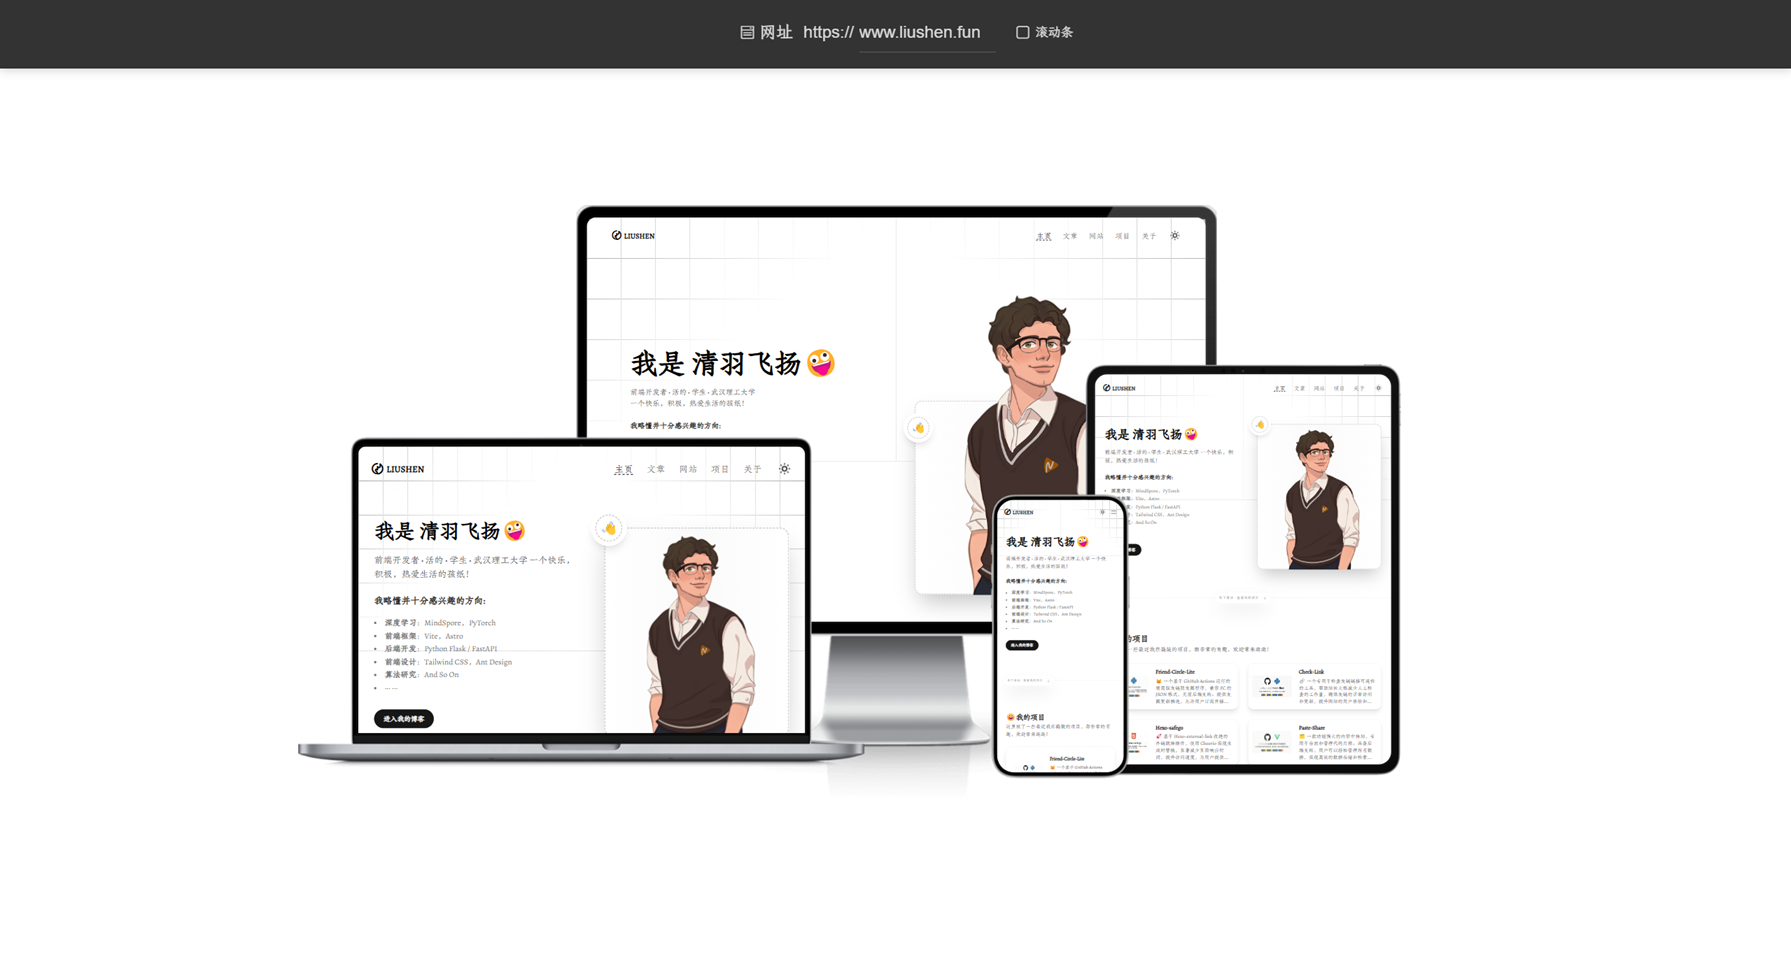
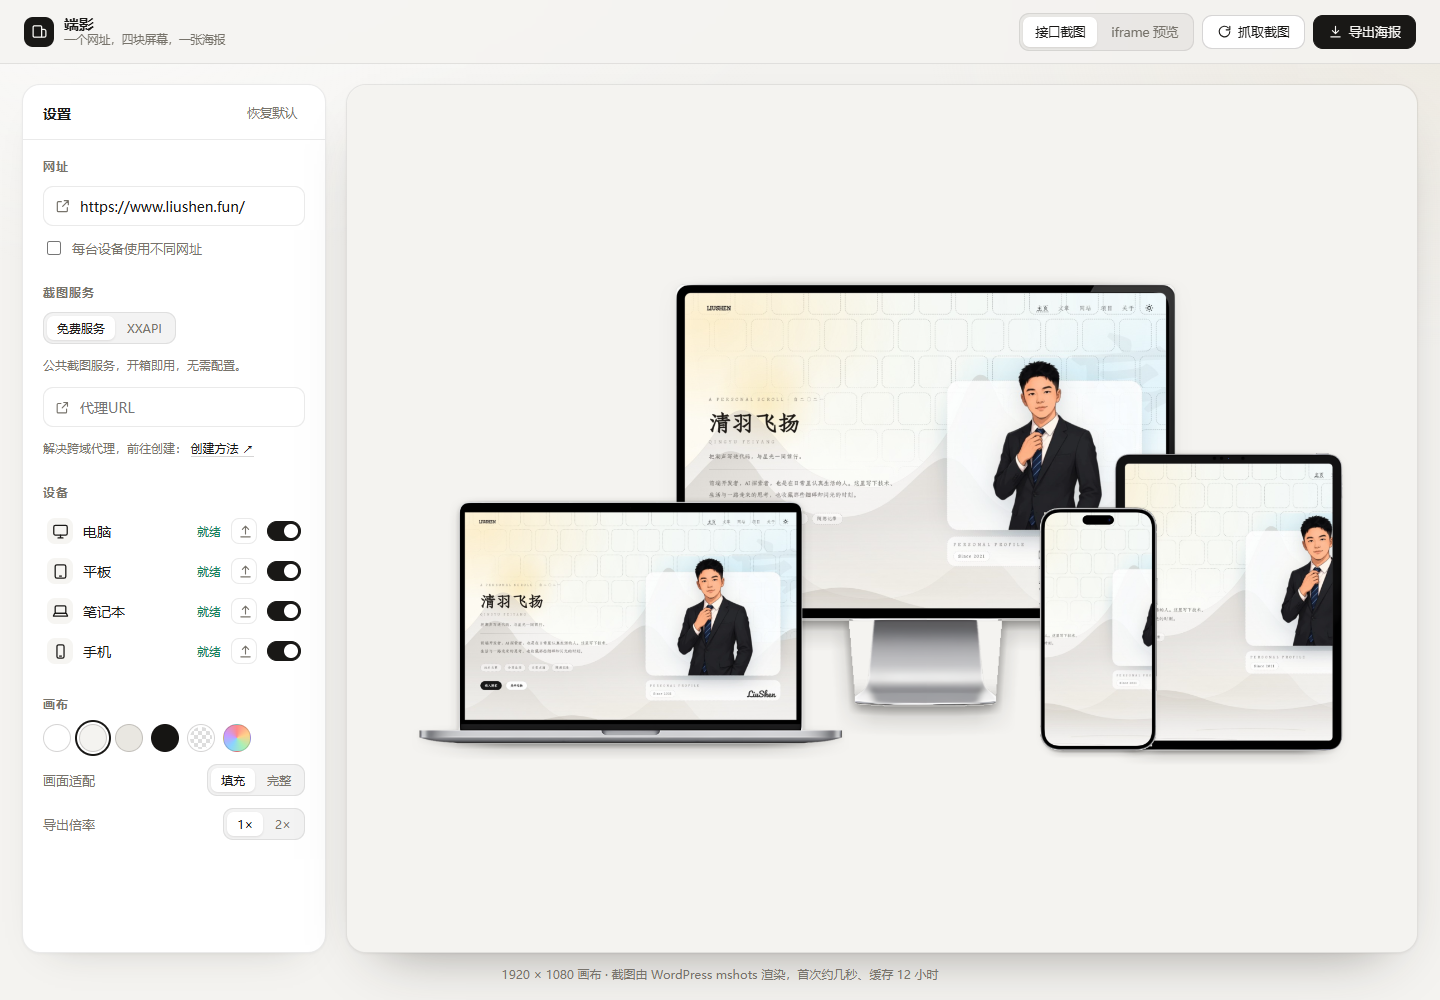
docs: 重写 README 并更新界面预览图
- 说明 iframe 为什么不能导出、为什么要走服务端截图
- 补跨域与 XXAPI 使用的坑（return=302 会被 CORS 拦掉）
- 记下设备边框与投影的合成方案、目录结构与已知限制
- img/display.png 换成新版界面实拍

diff --git a/README.md b/README.md
@@ -1,38 +1,113 @@
-# 多端带壳网站预览工具
+# 端影 · Multi-device poster
 
-[示例网站](https://prtsc.liushen.fun) | [个人主页](https://www.liushen.fun)
+[在线示例](https://prtsc.liushen.fun) | [个人主页](https://www.liushen.fun)
 
-## 项目简介
-本项目基于 [himkiong 的 multiterminal-preview](https://github.com/himkiong/multiterminal-preview) 进行开发，旨在生成多端设备（手机、平板、笔记本、电脑）预览图，通过 `iframe` 实现实时网站预览，并展示不同设备外壳的截图效果。用户可以在不同设备之间切换预览，支持自定义网址输入。
+把一个网址分别放进电脑、笔记本、平板和手机的屏幕里，叠成一张 **1920 × 1080** 的展示海报：电脑居中靠后、平板右侧、笔记本左前、手机最前，每台设备都带一层柔和投影，导出 PNG 就能当网站对外的门面图。
 
-## 功能特点
-- 支持手机、平板、笔记本和电脑的预览。
-- 实时显示目标网站内容，便于多设备兼容性测试。
-- 可选择是否显示滚动条，模拟真实的浏览体验。
-- 自定义输入不同设备的预览网址，灵活性强。
+![界面预览](img/display.png)
 
-## 使用方法
-1. 克隆项目到本地：
-   ```bash
-   git clone https://github.com/willow-god/multi-terminal-screenshot.git
-   ```
-2. 安装依赖：
-   ```bash
-   npm install --save
-   ```
-3. 启动项目：
-   ```bash
-   npm run dev
-   ```
-4. 在浏览器中打开 `localhost:5173`，即可访问多端预览工具。
+## 两种模式
 
-## 文件结构
-- `src/`: 项目主要代码。
-- `public/`: 静态资源存放文件夹（如 favicon）。
-- `index.html`: 项目的 HTML 入口文件。
+| 模式 | 原理 | 导出 |
+| --- | --- | --- |
+| **接口截图** | 由 WordPress mshots 服务端渲染出真实截图，再用 Canvas 合成到 1920×1080 画布 | 支持一键导出（1× / 2×） |
+| **iframe 预览** | 按各国设备视口尺寸实时嵌入目标站点，同样叠放 | 不支持（跨域文档无法绘制到 Canvas） |
 
-## 效果展示
-![](./img/display.png)
+接口模式是默认模式，也是唯一能导出的模式；iframe 模式用来快速确认「目标站点在这四种视口下长什么样」。
 
-## 贡献指南
-本项目欢迎任何形式的改进和建议！如果你有好的想法，欢迎提交 PR。
+### 为什么 iframe 不能导出
+
+`iframe` 属于跨域文档，把它画进 `canvas` 会污染画布，`toBlob()` 直接抛异常；此外大量站点用 `X-Frame-Options` 或 CSP `frame-ancestors` 拒绝被嵌入，页面会空白。所以导出只能走服务端截图这条链路。
+
+### 跨域（CORS）怎么办
+
+前端没有任何办法关掉同源策略：`fetch` 读不到对方的 `Access-Control-Allow-Origin`，`<img>` 能显示但画进 canvas 会污染，`mode: 'no-cors'` 拿到的是读不了的透明响应。可选的只有三条路：
+
+1. 用本身带 CORS 头的截图服务 —— 本项目的 mshots / thum.io / XXAPI 返回的图片都带 `Access-Control-Allow-Origin: *`，可以直接合成导出。
+2. 加一层反向代理（Cloudflare Worker / nginx），由代理补上 CORS 头；代码里保留了这条路（`settings.proxy` 填一个前缀即可把所有抓取请求转发过去），界面上没做开关，需要时自己在 `defaultSettings()` 里配。
+3. 服务端代抓，也就是回到方案 1。
+
+踩过的坑：XXAPI 的 `return=302` 跳转在浏览器里会被 CORS 拦掉（`Failed to fetch`），必须用 `return=json` 拿到图片地址再取一次。
+
+## 功能
+
+- **一次四端**：电脑 1280×840、平板 720×960、笔记本 1280×805、手机 390×844，四个视口分别抓取，得到真实的响应式布局，不是把一张图缩放四次。
+- **真实截图**：默认用免费服务，优先 WordPress mshots（`s0.wp.com/mshots/v1/`），失败自动回落到 thum.io；两者都返回 `Access-Control-Allow-Origin: *`，因此可以导出。
+- **自带密钥的截图服务**：设置里可把「截图服务」切到 XXAPI（`v2.xxapi.cn`），密钥填在面板的输入框里，只存本机 localStorage，不进代码、不进仓库。调用走 `return=json`（`return=302` 的跳转在浏览器里会被 CORS 拦掉），拿到返回的图片地址再取成 Blob 合成；`width` 传设备视口宽，保证拿到对应端的响应式版式。
+- **固定画布**：1920×1080 的设计坐标写死在 `src/lib/devices.ts` 的 `poster` 字段里，四台设备底边对齐在同一条线上，改坐标即可换构图。
+- **设备边框自带投影**：投影烘焙在 PNG 里（半透明黑、三层模糊），不依赖 CSS 或 Canvas 阴影，因此任何画布底色下都不会出现白边、硬矩形。
+- **超采样合成**：设备边框按 2 倍超采样绘制，导出 2× 时为 3840×2160，屏幕内容不糊。
+- **导出选项**：画布底色（纸白 / 暖白 / 浅灰 / 墨黑 / 透明 / 自定义）、画面适配（填充裁切或完整留白）、倍率 1× / 2×。
+- **兜底上传**：个别站点拒绝被抓取时，可在设置里为某台设备上传自己的截图，合成与导出照常。
+- **未抓取也有画面**：还没抓取 / 抓取中 / 抓取失败时，设备屏幕里会先画一张灰阶网页骨架，四台设备的位置、比例和投影都能立刻看到，不会只是一片空白。
+- **每台不同网址**：一键切换后，四台设备可以分别指向不同页面（例如 PC 版首页 + 移动版落地页）。
+- **本地记忆**：网址、开关、底色、适配与倍率都保存在 localStorage。
+- **移动端**：窄屏下面板改为底部抽屉，操作收进悬浮 dock。
+
+## 界面
+
+- **顶栏**：左上站点标识，右侧是「接口截图 / iframe 预览」切换和「抓取截图 / 导出海报」。
+- **左栏**：标题固定，下面的设置项自己滚动 —— 内容再多也只在卡片内部滚动，不会把左侧卡片顶高、带着右侧舞台一起变形。
+- **右栏**：一张白底卡片，里面是 1920×1080 的舞台，按可用空间等比缩放后居中；窗口再小也只是整体缩小，不会裁掉设备。
+- **卡片下方**：状态条。接口模式显示画布尺寸与抓取来源；iframe 模式显示绿点 +「实时预览」。这个角标刻意放在卡片外面，卡片里保持干净，导出时不会带进图里。
+- **窄屏（≤1023px）**：左栏变成底部抽屉，主要操作收进悬浮 dock，画布铺满宽度。
+
+## 合成方案
+
+1. **抓取**：四台设备各按自己的视口（电脑 1280×840、平板 720×960、笔记本 1280×805、手机 390×844）分别向截图服务要图，拿到的是真实的响应式排版，而不是把一张图缩放四次。
+2. **画框**：`src/assets/images/new-model/` 里的设备边框 PNG，屏幕区域是透明的。合成时先按 `screen` 矩形把截图画进去（「填充」按封面裁切、「完整」留白居中），再把整张边框盖在上层，边缘、刘海、摄像头这些小细节都在图里。
+3. **投影**：投影不是 CSS `box-shadow` / Canvas `shadowBlur`，而是**烘焙进 PNG 本身**的半透明黑（三层模糊 + 底部偏移）。所以换底色永远成立：纸白上是淡淡的灰影，墨黑上不会冒出白边或硬矩形。同时把原素材底部自带的白色倒影、硬阴影整个去掉了。
+4. **舞台**：`poster` 字段是每台设备在 1920×1080 设计坐标里的矩形和层级（电脑 0 → 平板 1 → 笔记本 2 → 手机 3），`PosterStage.vue` 只做一次 `scale` 换算，预览与导出共用同一套坐标，所见即所得。
+5. **导出**：设备边框按 2 倍超采样重绘，导出倍率选 2× 时输出 3840×2160；屏幕内的截图会按矩形重新采样，不会被边框拉伸。
+
+## 使用
+
+1. 在「网址」里输入域名（`https://` 可省略），点「抓取截图」。
+2. 首次抓取通常几秒到十几秒，画布下方会显示进度；同站点 12 小时内命中 mshots 缓存，基本 1–2 秒出图。
+3. 切换底色 / 适配 / 倍率，画布实时更新。
+4. 点「导出海报」下载 PNG；想实时看页面本身，切到「iframe 预览」。
+5. 想用自带密钥的 XXAPI：设置里「截图服务」选 XXAPI，把控制面板里的 Access Key 粘进输入框即可；密钥只会写进本机浏览器。
+
+## 开发
+
+```bash
+npm install
+npm run dev      # 本地开发（默认 http://localhost:5173）
+npm run build    # vue-tsc 类型检查 + 生产构建
+npm run preview  # 预览构建产物
+```
+
+技术栈：Vue 3 + TypeScript + Vite，无 UI 框架，样式为手写 CSS。
+
+## 目录结构
+
+```
+src/
+├─ App.vue                 # 页面结构、抓取队列、导出、设置持久化、响应式布局
+├─ components/
+│  ├─ PosterStage.vue      # 1920×1080 舞台：Canvas 合成 / 叠放 iframe
+│  ├─ SettingsPanel.vue    # 网址、设备开关与上传、底色、适配、倍率
+│  └─ Icon.vue             # 内联 SVG 图标集
+├─ lib/
+│  ├─ devices.ts           # 四种设备的边框尺寸、屏幕区域、抓取视口、海报坐标与图层顺序
+│  ├─ poster.ts            # 叠放合成、屏幕填充、导出 Blob 与下载（投影已烘进边框图）
+│  ├─ screenshot.ts        # mshots / thum.io 请求、轮询与回落，以及 XXAPI 密钥调用
+│  └─ settings.ts          # 设置模型与 localStorage 读写
+├─ assets/images/new-model # 设备边框 PNG（屏幕区域透明、自带烘焙投影、四周留白）
+└─ style.css               # 全局变量与基础样式
+```
+
+## 已知限制
+
+- 抓取依赖第三方服务（WordPress mshots / thum.io），需要联网；服务端视角的页面与登录后状态不同，需要登录的页面抓不到。
+- mshots 单张上限 1280×960，所以桌面端按 1280 宽抓取后再放大到画布；要更高清的桌面截图可以改用 thum.io 的 `outputWidth`。
+- 少数站点会拒绝被抓取，此时用「上传」按钮手动补图。
+- XXAPI 有并发限制，同时发四个请求会回「请求过于频繁」，所以走 XXAPI 时只并发两台并错开起跑；另外它返回的是整页长图，「填充」模式只取页面顶部那段。
+- iframe 模式对设置了 `X-Frame-Options` / CSP 的站点会显示空白，这是浏览器安全策略，无法绕过。
+- 替换设备素材时要一起改 `devices.ts`：`frameSize` 是整张 PNG 的尺寸（含四周投影留白），`screen` 是透明屏幕区的矩形，两者都以 PNG 像素为单位。
+
+## 致谢
+
+最初版本参考 [himkiong/multiterminal-preview](https://github.com/himkiong/multiterminal-preview)，现已重写为「服务端截图 + Canvas 叠放合成」的方案。
+
+欢迎提交 Issue 和 PR。
